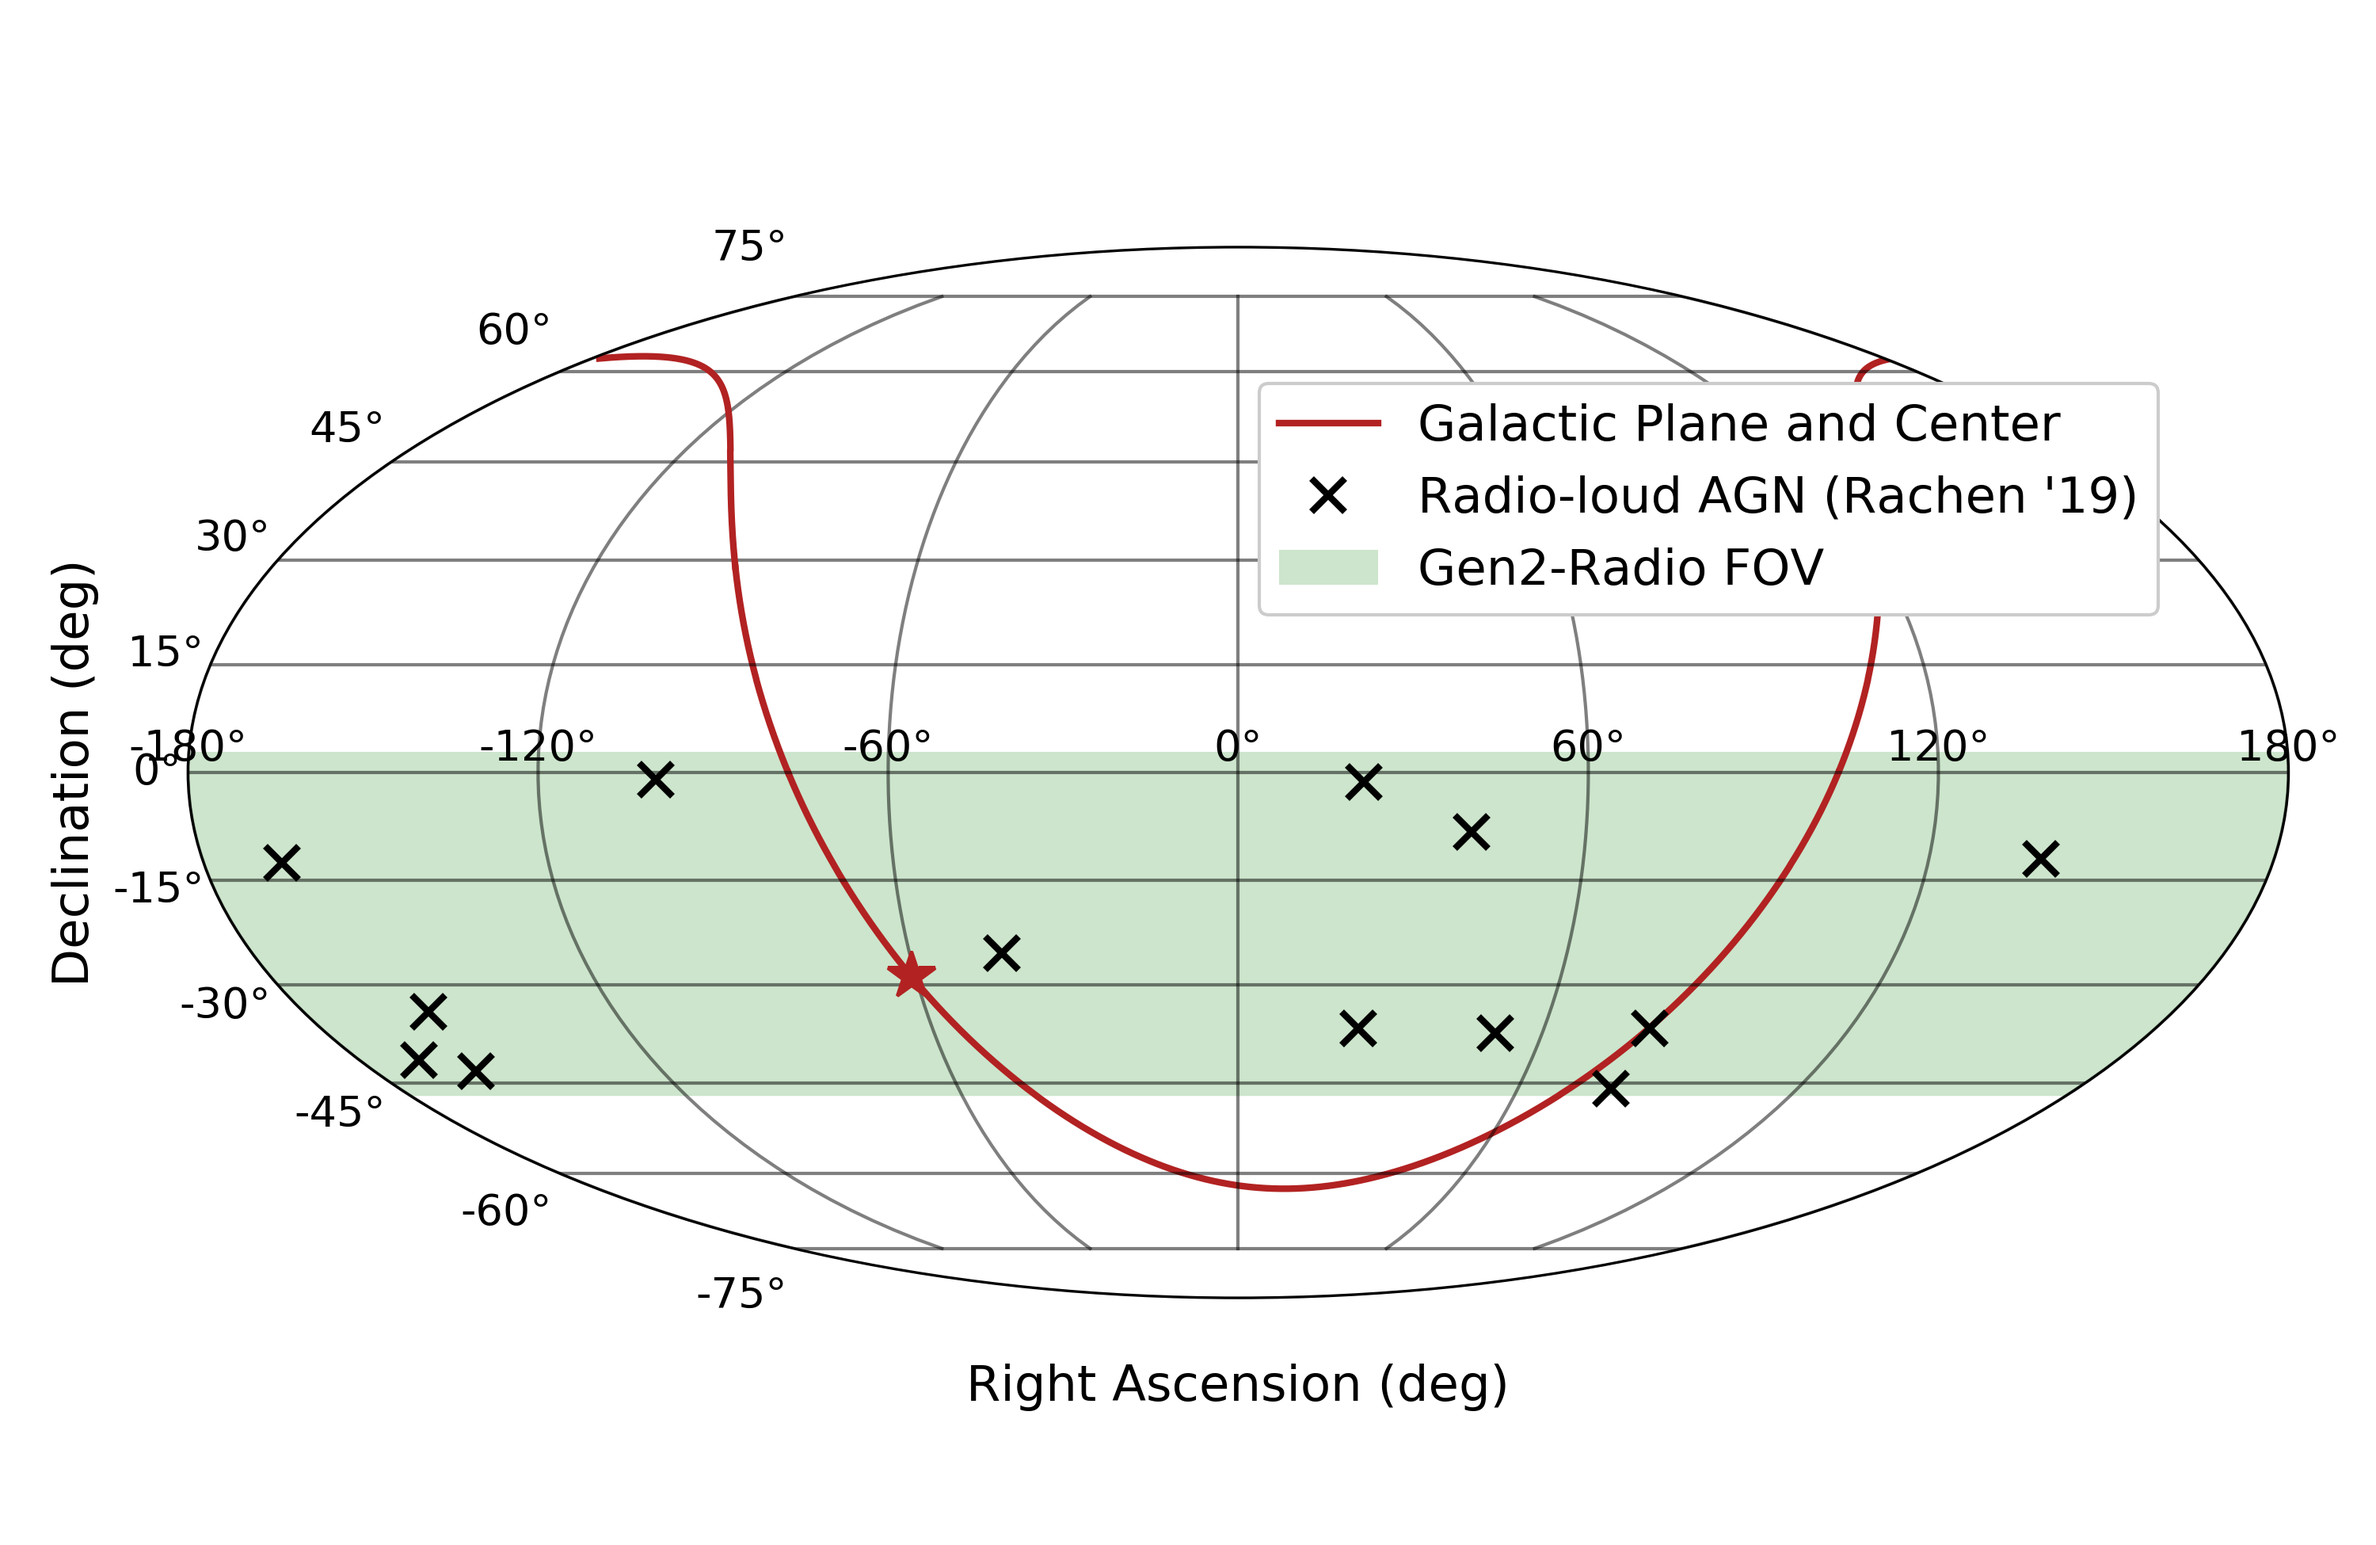
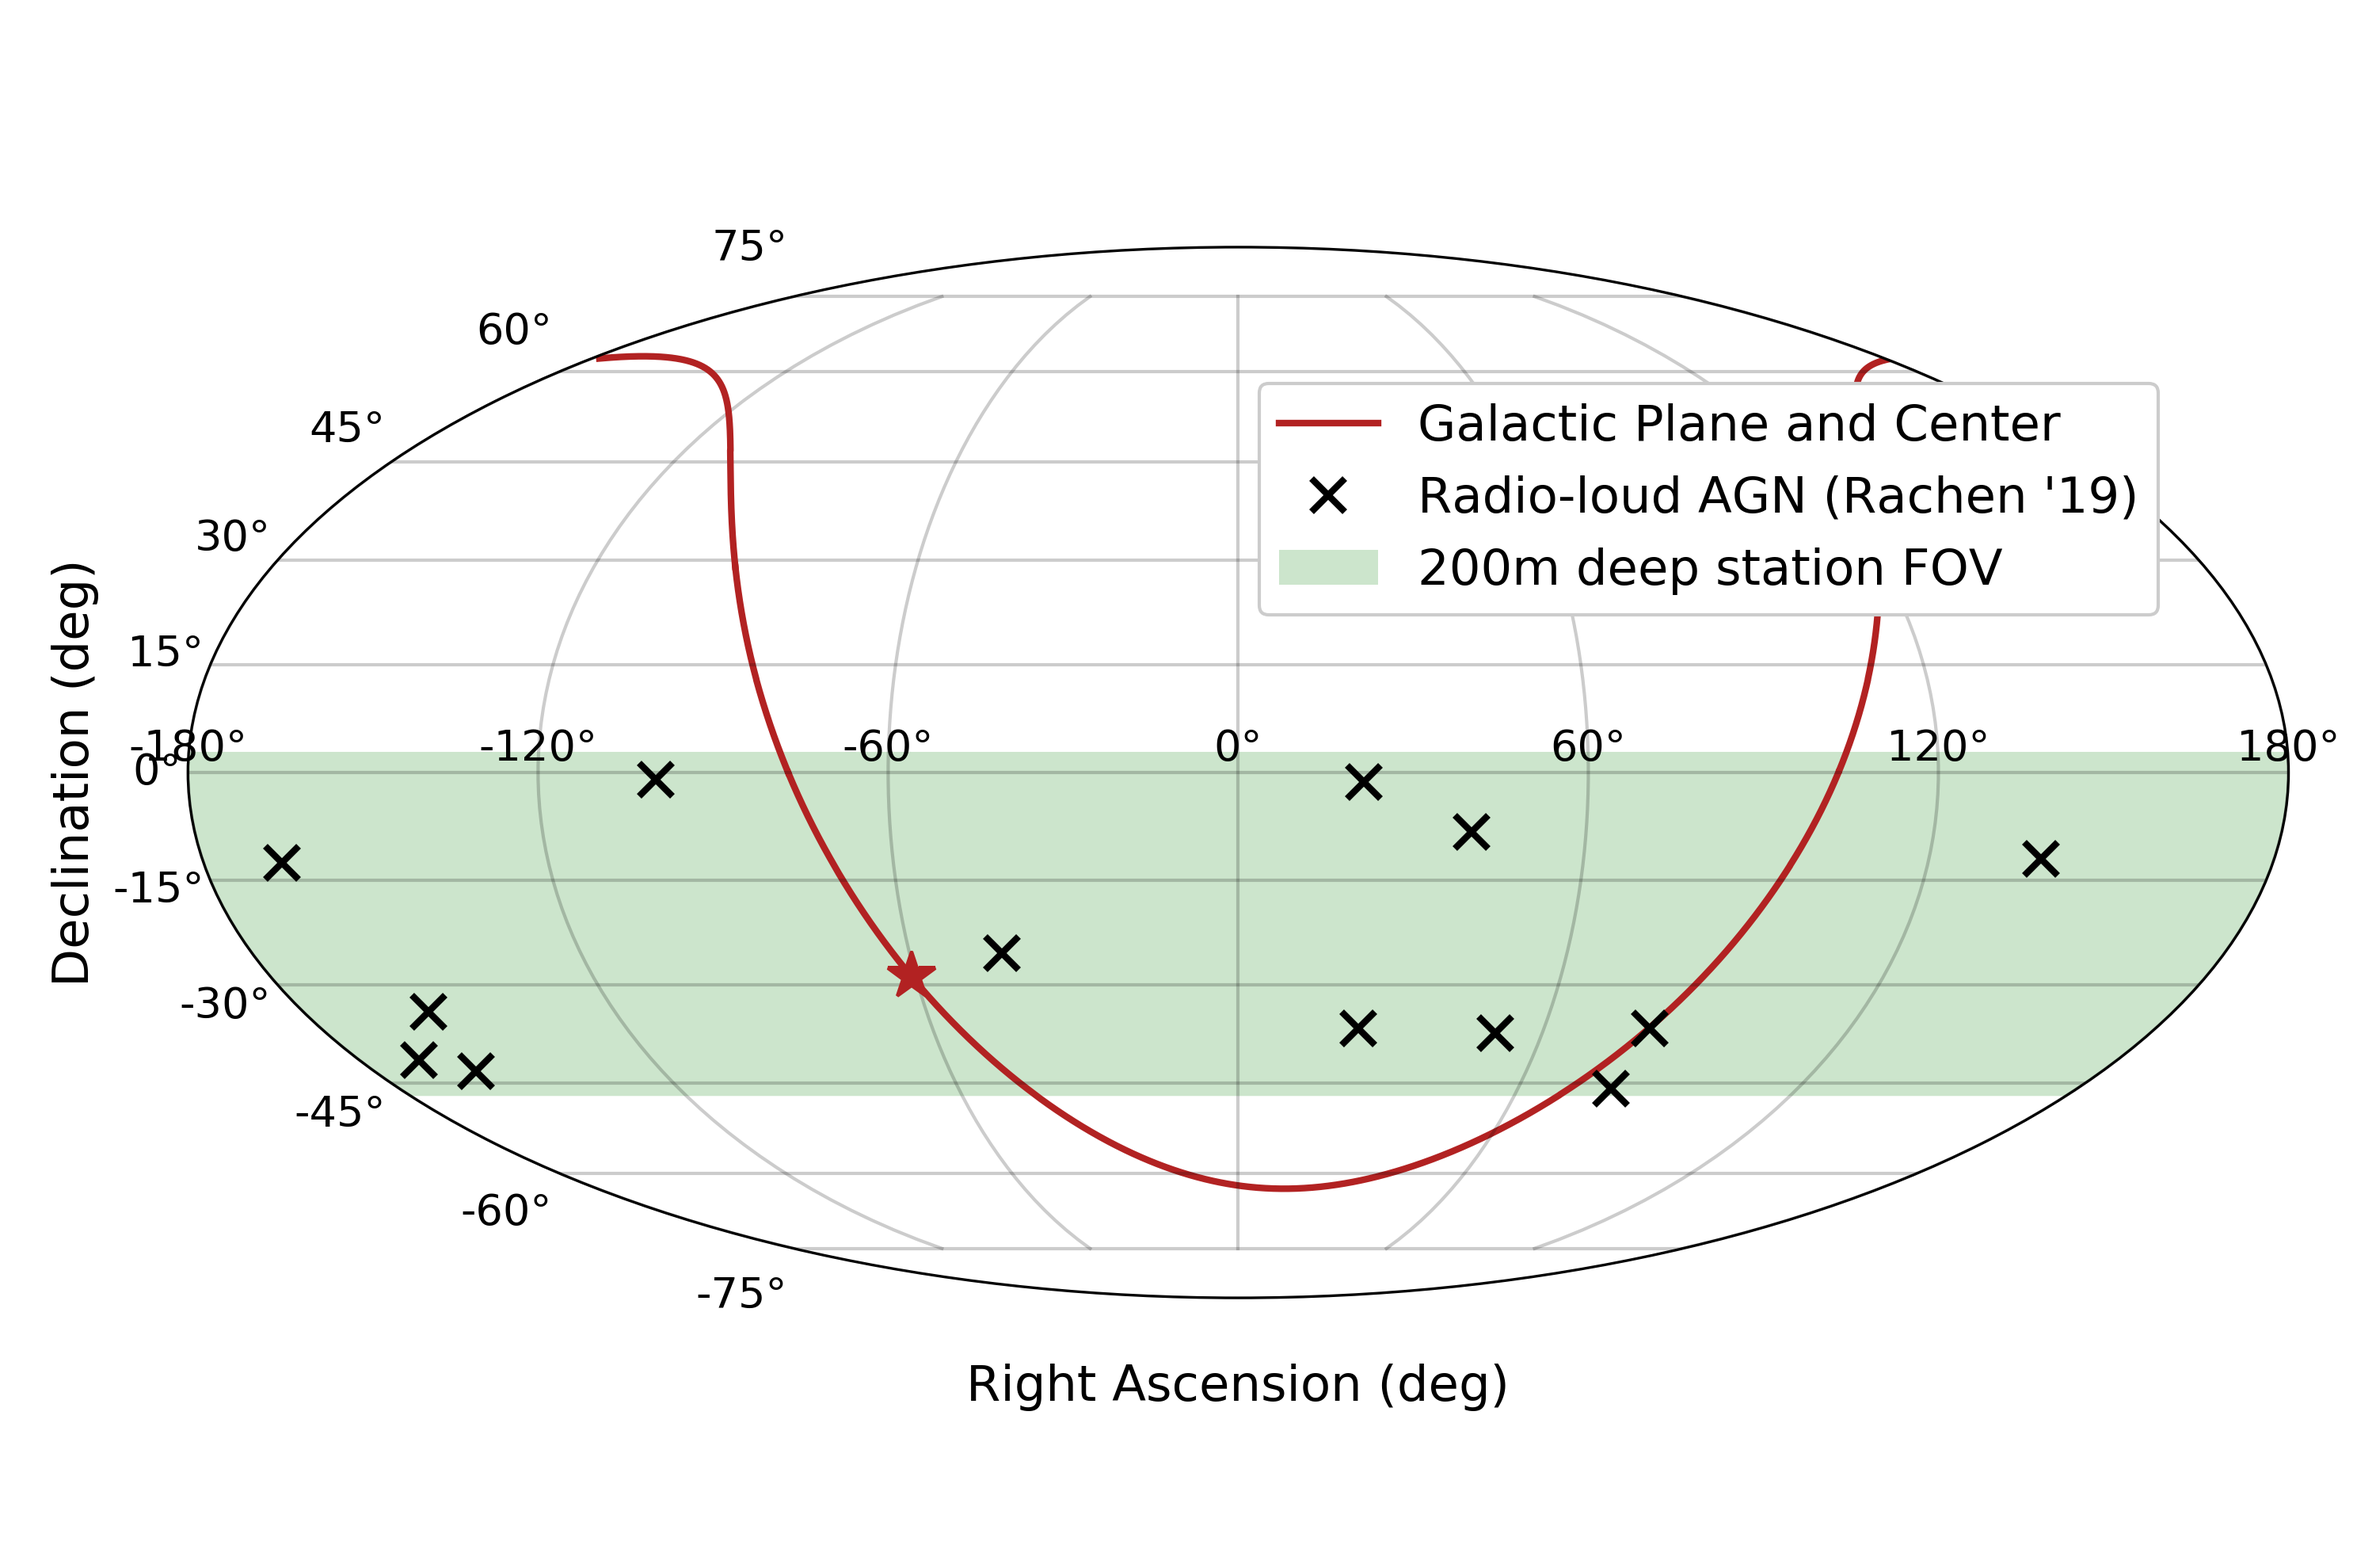
update the plot a little bit

diff --git a/analysis/2021.02_review/sky_coverage/plot_fov_w_sources.py b/analysis/2021.02_review/sky_coverage/plot_fov_w_sources.py
@@ -68,7 +68,7 @@ r = 90
 x = np.array([-np.pi,np.pi,np.pi,-np.pi,-np.pi])
 y2 = np.array([0.05,0.05,-0.82,-0.82,0.05])
 
-plt.fill(x,y2,label='Gen2-Radio FOV', facecolor='green',alpha=0.2)
+plt.fill(x,y2,label='200m deep station FOV', facecolor='green',alpha=0.2)
 # plt.plot(ra_rad, dec_rad, '*',color='gold',markersize=20,mec='firebrick',label='Galactic Center')
 plt.plot(ra_rad, dec_rad, '*',color='firebrick',markersize=15,mec='firebrick')
 # ax.plot(cena_ra, cena_dec,'^',markersize=12,color='m',label='Centaurus A')
@@ -93,7 +93,7 @@ plt.legend(ncol=1,loc=(0.51,0.65), fontsize=15, framealpha=1)
 ax.set_ylabel('Declination (deg)', fontsize=15) #give it a title
 ax.set_xlabel('Right Ascension (deg)',labelpad=20, fontsize=15) #give it a title
 ax.tick_params(direction='out', length=8, width=4, colors='k',
-               grid_color='k', grid_alpha=0.5, labelsize=13, grid_linewidth=1)
+               grid_color='k', grid_alpha=0.2, labelsize=13, grid_linewidth=1)
 ax.axes.get_xaxis().set_ticks([-np.pi/3, -2*np.pi/3, -np.pi,0,np.pi/3, 2*np.pi/3, np.pi])
 # plt.gca().set_aspect('0.9', adjustable='box')
 # plt.suptitle("Radio galaxies as UHECR sources \n Rachen & Eichmann",fontsize=20)
